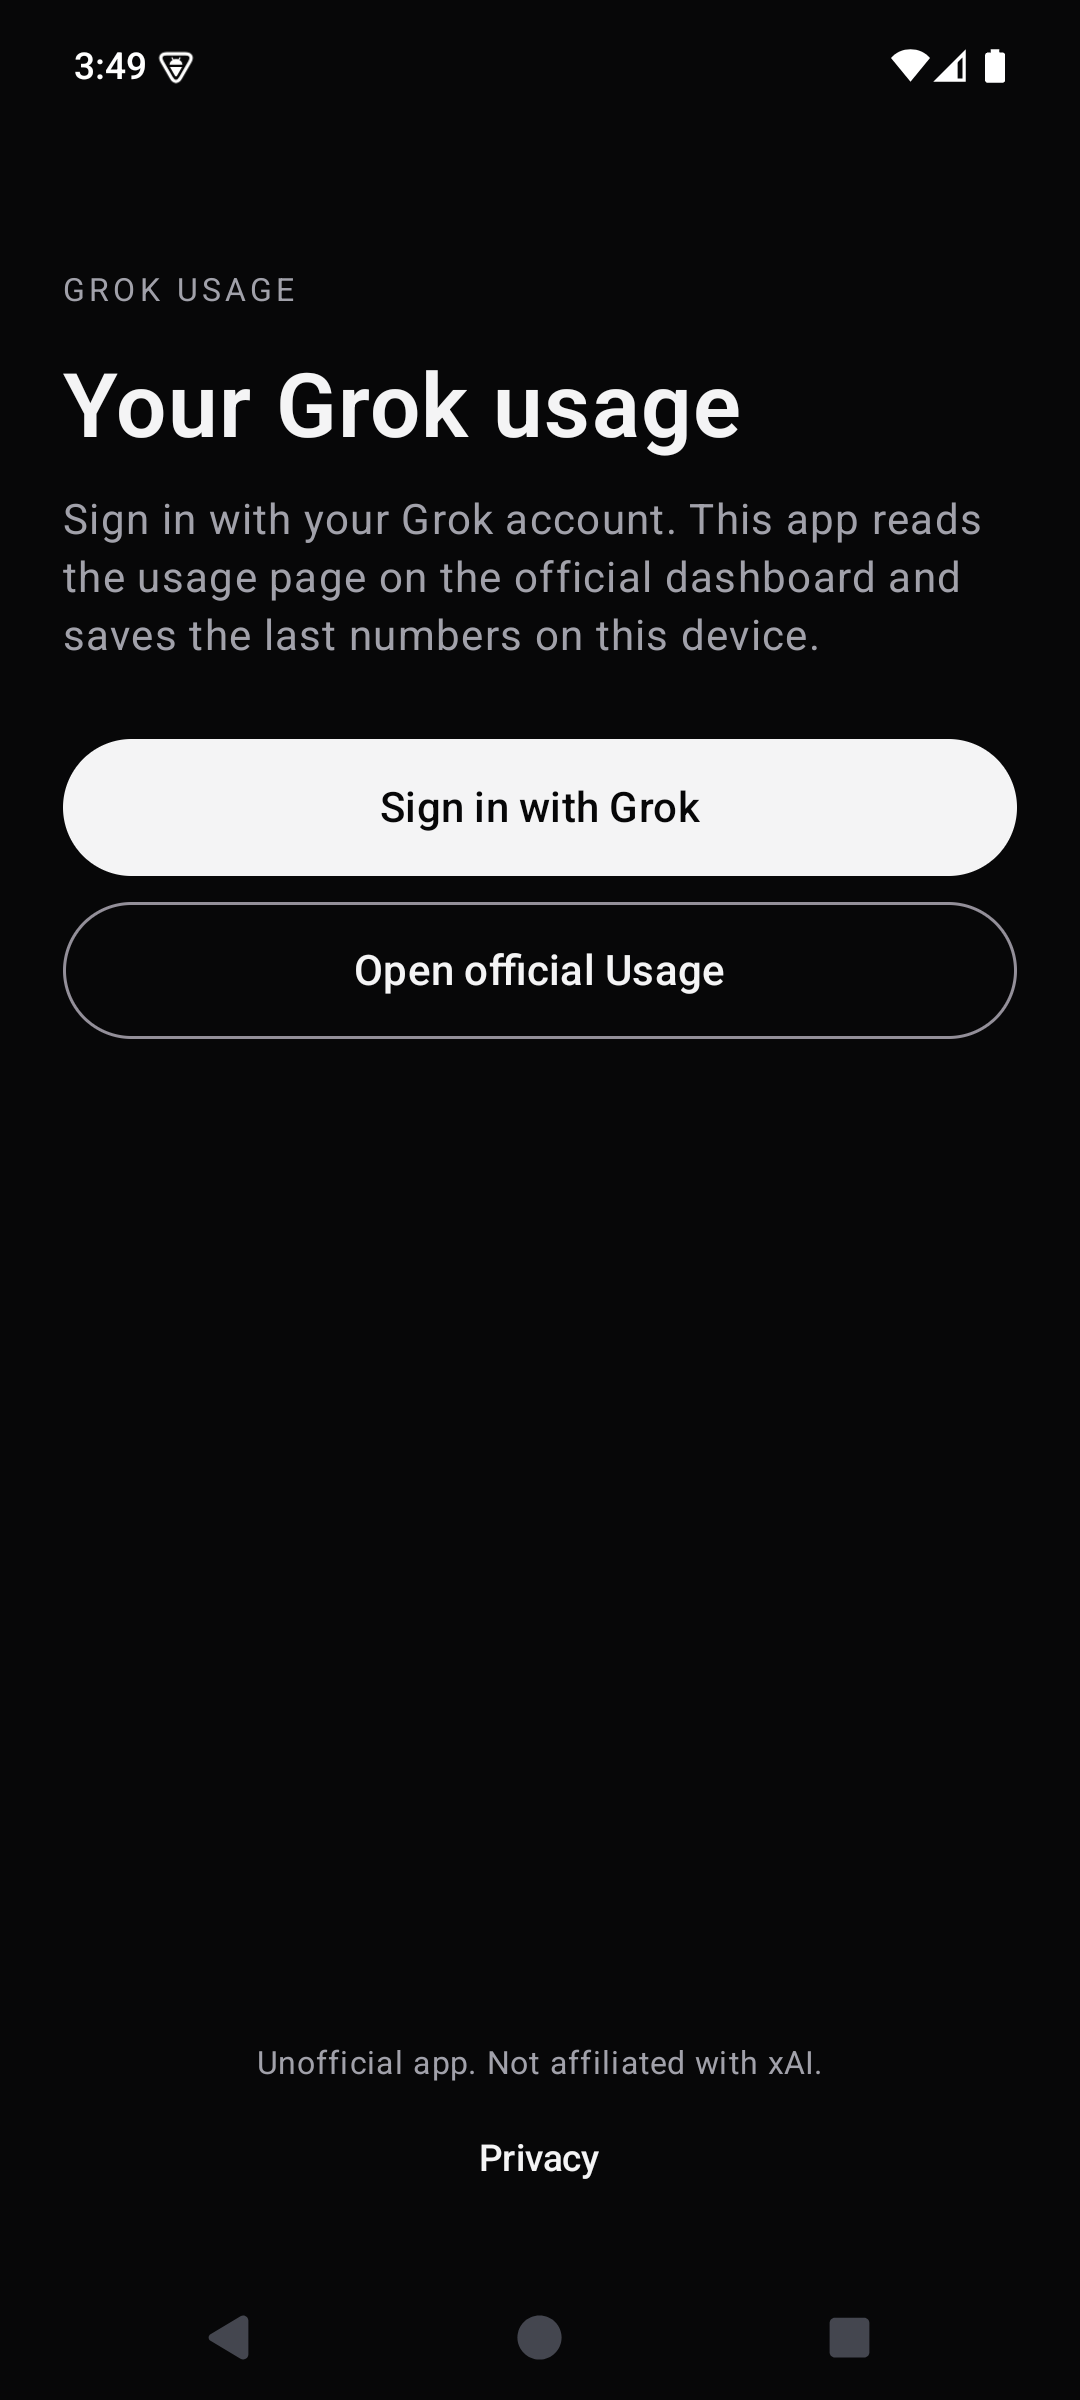
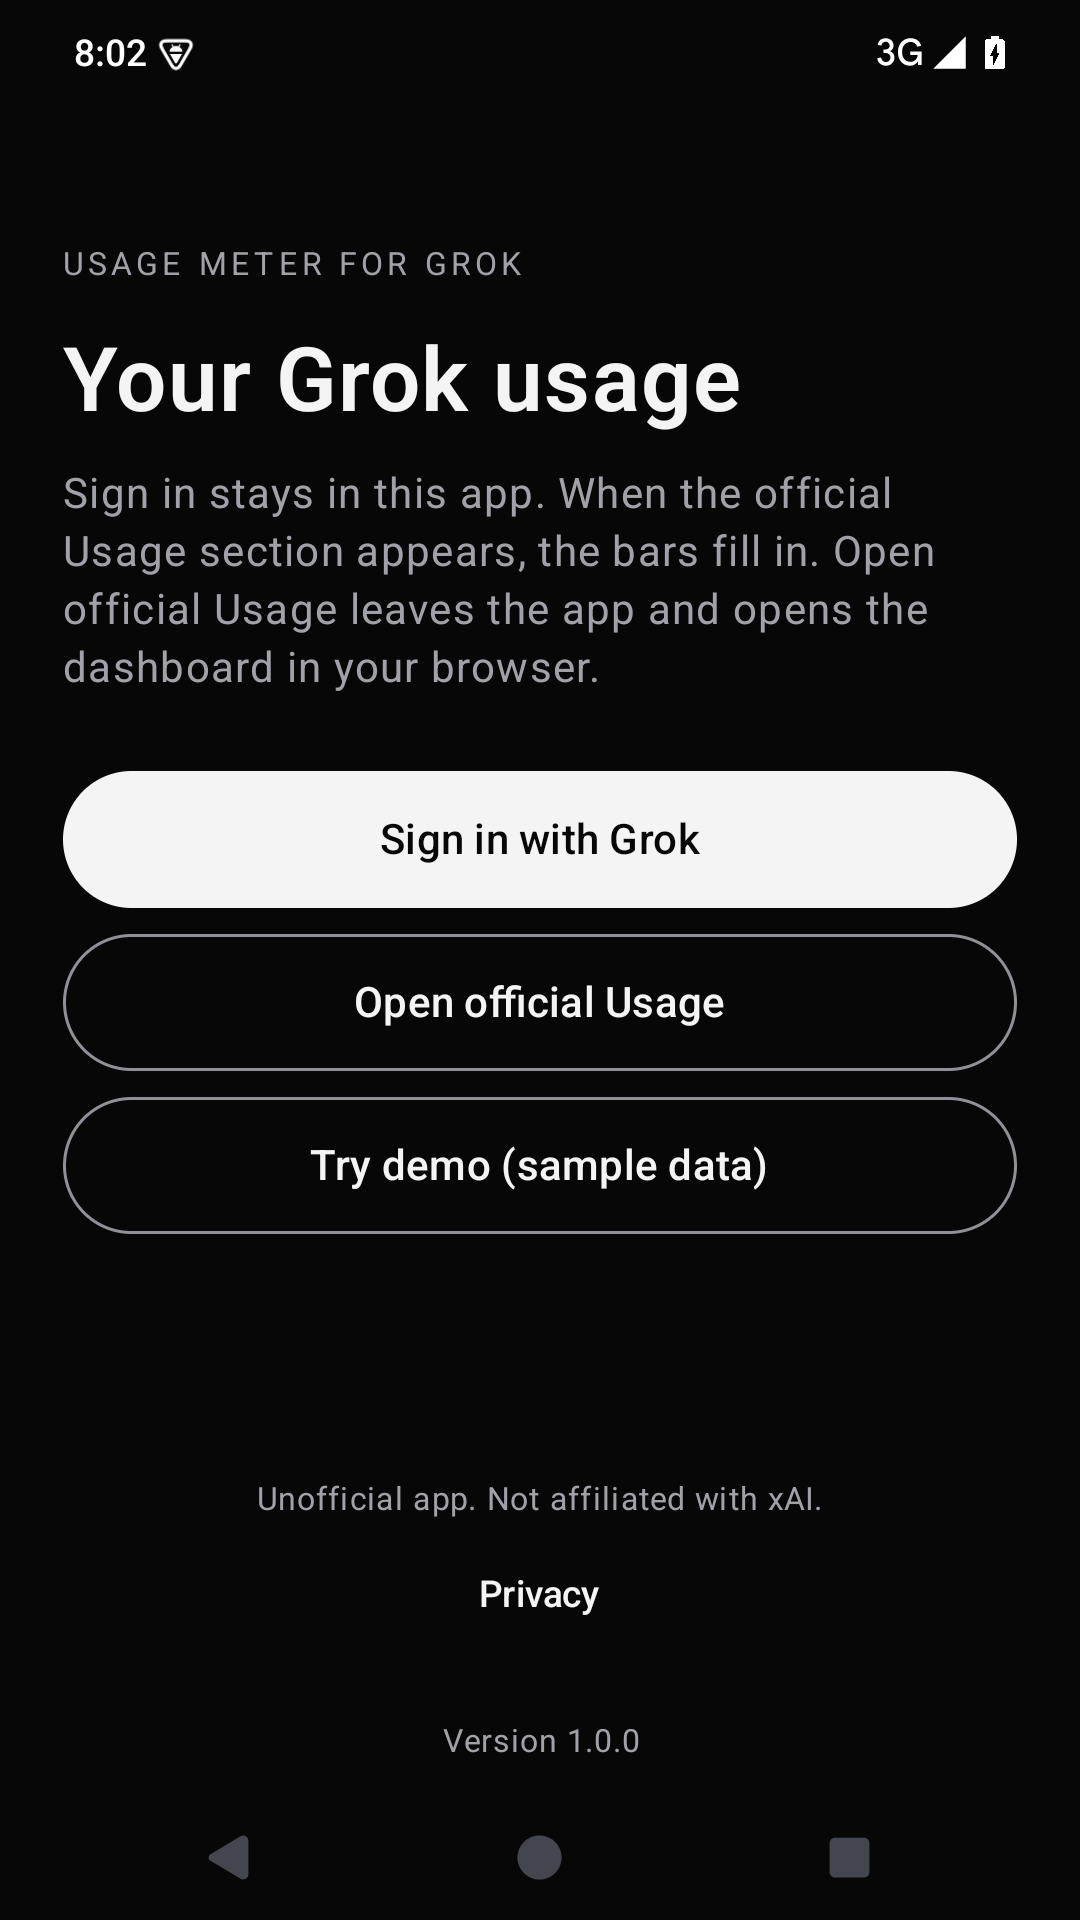
README: screenshots from the final 1.0.0 build

diff --git a/README.md b/README.md
@@ -20,8 +20,8 @@ The interface is English only.
 
 <p>
 <img src="docs/img/signin.png" alt="Sign in" width="33%">
-<img src="docs/img/cards.png" alt="Usage cards" width="33%">
-<img src="docs/img/banner.png" alt="Banner when the cards are scrolled away" width="33%">
+<img src="docs/img/cards.png" alt="Usage cards (demo data)" width="33%">
+<img src="docs/img/banner.png" alt="Weekly Grok Bot limit (demo data)" width="33%">
 </p>
 
 ## Requirements
